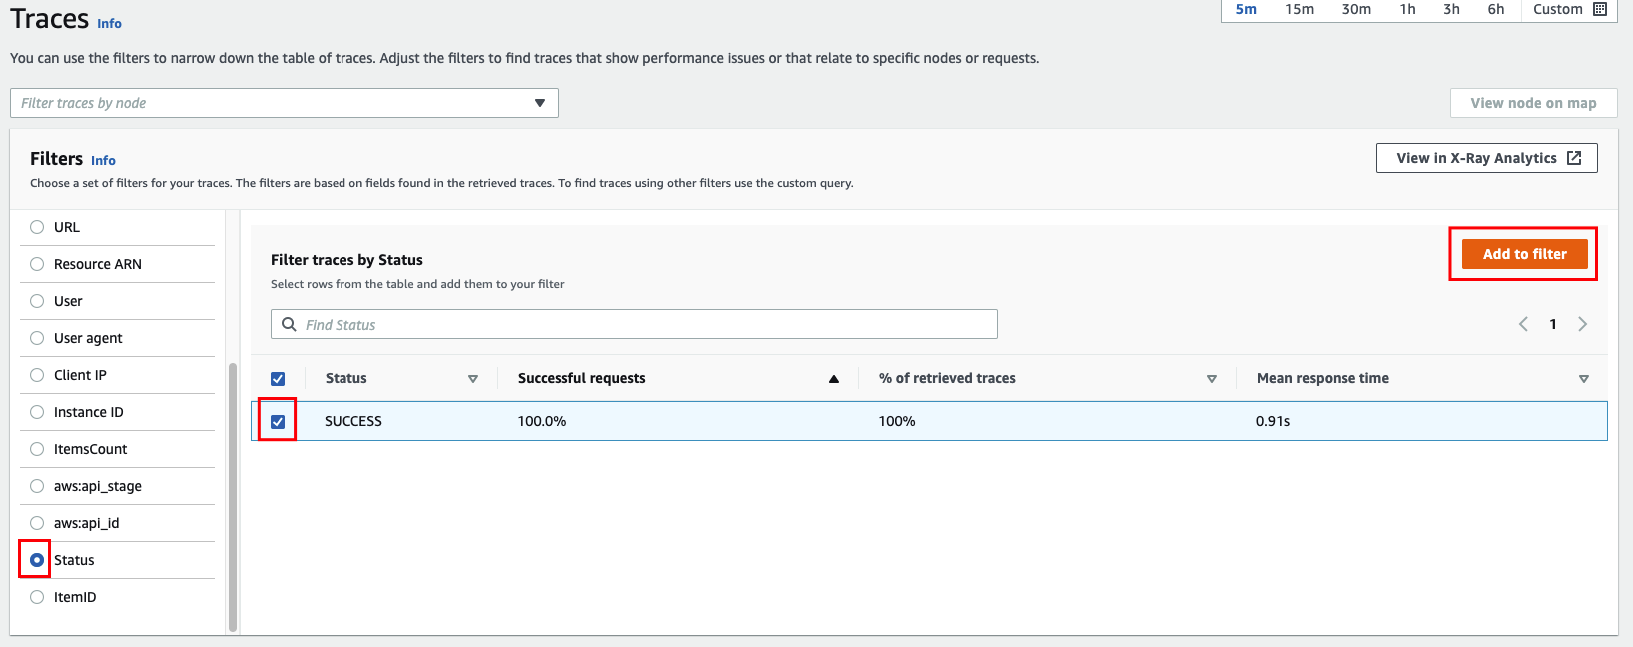
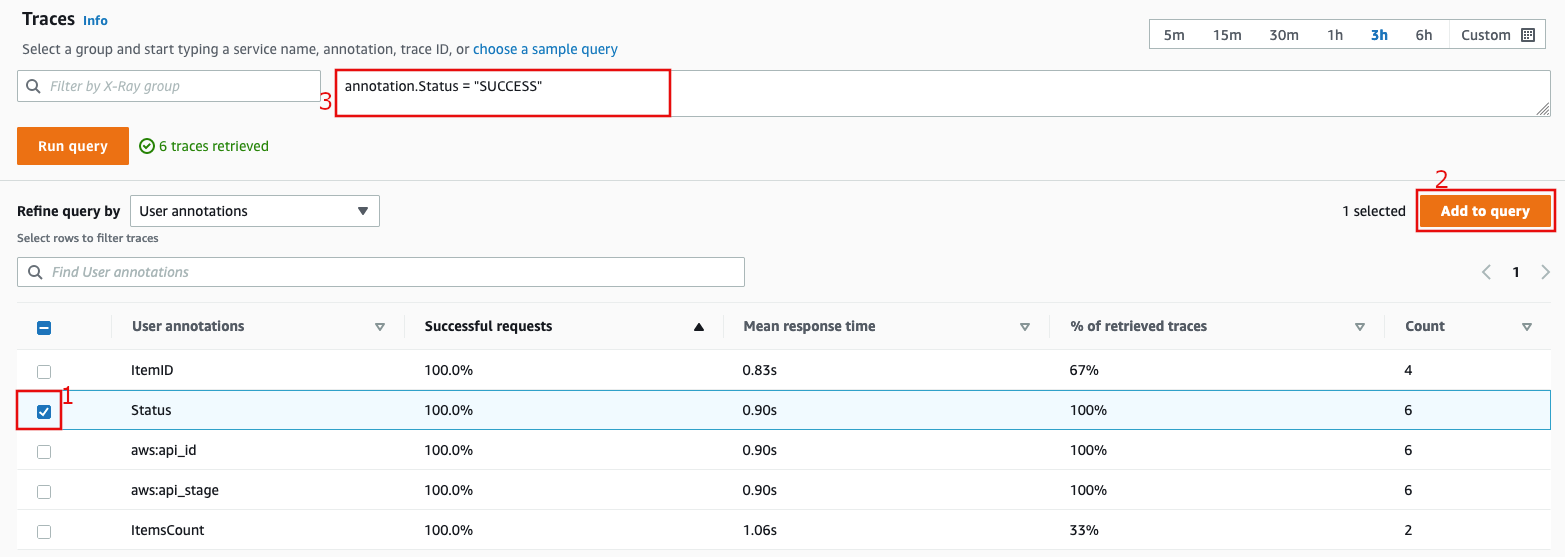
1. fix statement on cloudwatch EMF due to copy paste from previous section 2. fix statement on dashboard CDK template (no SAR or SAM involved) 3. update screenshots and walkthrough instructions for tracing section due to CloudWatch UI changes

diff --git a/workshop/content/070_tracing/subsegments_annotations/test_validate.en.md b/workshop/content/070_tracing/subsegments_annotations/test_validate.en.md
@@ -57,13 +57,17 @@ curl -X GET $ApiUrl/items/6 | jq
 
 Go to [ServiceLens Traces](https://console.aws.amazon.com/cloudwatch/home?#servicelens:traces) page.
 
-Scroll down the **Filter type** list. You are now able to visualize the three different annotations we created as additional filters for your traces.
+Scroll to the **Refine query by** dropdown and select **User annotations**. You are now able to visualize the three different annotations we created as additional filters for your traces.
 
 ![Service Lens](/images/subsegment_1.png)
 
-- Select **Status**.
-- Select **SUCCESS**.
-- Click **Add to filter**.
+To refine your query you can add conditions on user annotations.
+For example, to filter only the traces with a **Status** annotation equal to **SUCCESS** you can
+
+- Select **Status** from the list of User annotations.
+- Click **Add to query**. This will add the selected annotation as an extra filter in the query textarea.
+- Edit the query adding the condition **= "SUCCESS"**.
+- Click on **Run query**.
 
 ![Service Lens](/images/subsegment_2.png)
 

diff --git a/workshop/content/030_cloudwatch/async_metrics_emf/modify_app.md b/workshop/content/030_cloudwatch/async_metrics_emf/modify_app.md
@@ -3,7 +3,7 @@ title = "Modifying the Application Code"
 weight = 12
 +++
 
-In this step, we are going to define a couple of metrics that we want to capture amongst our three core services, and will instrument the `logMetricEMF()` method to push them asynchronously to CloudWatch Metrics, having them first logged to CloudWatch Logs and then processed in background by the utility module we deployed in the previous step.
+In this step, we are going to define a couple of metrics that we want to capture amongst our three core services, and will instrument the `logMetricEMF()` method to embed such custom metrics alongside detailed log event data and push them asynchronously to CloudWatch Logs. With this setup CloudWatch will automatically extract the custom metrics without the need of separate components to deploy and maintain.
 
 ### Defining Metrics
 

diff --git a/workshop/content/030_cloudwatch/dashboards/create_dashboard.md b/workshop/content/030_cloudwatch/dashboards/create_dashboard.md
@@ -29,7 +29,7 @@ cdk deploy -c stack_name=monitoring-app
 ```
 
 {{% notice tip %}}
-Spare a couple of minutes to understand how these two SAR apps are being deployed by examining the SAM Template on ***serverless-observability-workshop/code/cloudwatch-cdk/lib/cloudwatch-cdk-stack.ts*** file.
+Spare a couple of minutes to understand how dasboards are created by examining the CDK stack in the ***serverless-observability-workshop/code/cloudwatch-cdk/lib/cloudwatch-cdk-stack.ts*** file.
 {{% /notice %}}
 
 Go to your [CloudWatch Dashboard Console](https://console.aws.amazon.com/cloudwatch/home?#dashboards:).

diff --git a/workshop/content/070_tracing/subsegments_annotations/get_by_id.en.md b/workshop/content/070_tracing/subsegments_annotations/get_by_id.en.md
@@ -1,5 +1,5 @@
 ---
-title: "Função Obter Item por ID `Get Item By ID Function`"
+title: "Get Item By ID Function"
 weight: 78
 ---
 
